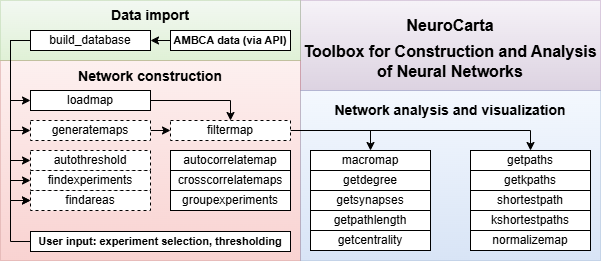
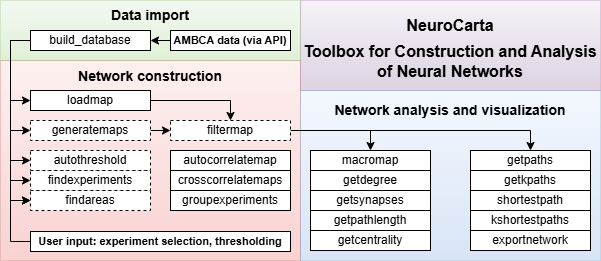
removed redundant nomralizemap function and added exportnetwork for data export to Gephi; updated Documentation and flowchart

diff --git a/Toolbox/Networks_analysis/exportnetwork.m b/Toolbox/Networks_analysis/exportnetwork.m
@@ -1,0 +1,201 @@
+function exportnetwork(filename, labels, conn, directed, varargin)
+%% Export network data to a file in GEXF format.
+% Export a network to a GEXF (XML-like) file that can be loaded by network
+% visualization software, Gephi in particular.
+% 
+% export_network(filename, labels, conn, directed,...)
+% 
+% Input:
+% filename: (required) name of output file.
+% labels:   (required) N-length cell array with node labels.
+% conn:     (required) Connectivity matrix (N by N).
+% directed: (required) true/false whether edge directionality should be
+%           considered.
+%
+% Optionally, add properties for nodes and/or edges. For every property,
+% include a parameter that is a struct with the following fields:
+% % name:   Name of the property
+% % data:   Values of the property for all nodes/edges. Whether the
+%           property is interpreted as a node- or edge-related property
+%           depends on the matrix size. If it is 'N by 1' or '1 by N', it
+%           is a node property. If the size is 'N by N', it is an edge
+%           propperty.
+% % type:   Choose 'boolean', 'int', 'long', 'float', 'double', or 'string'
+%
+% To color nodes, add a node property named 'color' accompanied by a list
+% of hex strings (e.g. obtained from rgb2hex()).
+% 
+% Limitation: node data can not be named 'id' or 'label' and edge data can
+% not be named 'id', 'source', 'target' or 'weight'. Script does not check
+% for this!
+% 
+% Example (where node_size and edge_group are extra properties):
+% export_network('nw.gexf', [N*1 cell arr], [N*N arr], false, ...
+%                struct('name','node_size', 'data',[N*1 arr], 'type','float'), ...
+%                struct('name','edge_group', 'data',[N*N arr], 'type','boolean'))
+
+%% Check arguments
+N = size(conn, 1);
+if N ~= size(conn, 2) % Bilateral map
+    conn = [conn;[conn(:,(N+1):(2*N)) conn(:,1:N)]];
+    N = size(conn, 1);
+    labels = [labels ; strcat('c', labels)];
+end
+
+node_props = [];
+edge_props = [];
+node_viz = [];
+edge_viz = [];
+for i = 1:length(varargin)
+    warning_ending=" in extra parameter " + num2str(i);
+    
+    for f = ["name", "data", "type"]
+        assert(isfield(varargin{i}, f), f+" field missing" + warning_ending);
+    end
+    
+    sz = size(varargin{i}.data);
+    if isequal(sz, [1 N]) || isequal(sz, [N 1])
+        if varargin{i}.name == "color"
+            node_viz = varargin{i};
+        else
+            node_props = [node_props varargin{i}];
+        end
+    elseif isequal(sz, [N N])
+        if varargin{i}.name == "color"
+            edge_viz = varargin{i};
+        else
+            edge_props = [edge_props varargin{i}];
+        end
+    else
+        error("Wrong size [" + num2str(sz) + "]" + warning_ending);
+    end
+    
+    types = ["boolean","int","long","float","double","string"];
+    assert(ismember(varargin{i}.type,types),"Unknown datatype "+varargin{i}.type + warning_ending);
+end
+
+%% Create XML document object
+disp('Creating document...');
+xmlDoc = com.mathworks.xml.XMLUtils.createDocument('gexf');
+gexf = xmlDoc.getDocumentElement;
+gexf.setAttribute('version', '1.3');
+gexf.setAttribute('xmlns', 'http://gexf.net/1.3');
+if ~(isempty(node_viz) && isempty(edge_viz))
+    gexf.setAttribute('xmlns:viz', 'http://gexf.net/1.3/viz');
+end
+
+%% Create graph element
+graph = xmlDoc.createElement('graph');
+graph.setAttribute('mode','static');
+if directed
+    graph.setAttribute('defaultedgetype','directed');
+else
+    conn = max(conn, conn');
+    conn = tril(conn);
+    graph.setAttribute('defaultedgetype','undirected');
+end
+
+% Create node attribute elements
+if ~isempty(node_props)
+    atts = xmlDoc.createElement('attributes');
+    atts.setAttribute('class','node');
+    for i = 1:length(node_props)
+        att = xmlDoc.createElement('attribute');
+        att.setAttribute('id',num2str(i-1));
+        att.setAttribute('title',node_props(i).name);
+        att.setAttribute('type',node_props(i).type);
+        atts.appendChild(att);
+    end
+    graph.appendChild(atts);
+end
+
+% Create edge attribute elements
+if ~isempty(edge_props)
+    atts = xmlDoc.createElement('attributes');
+    atts.setAttribute('class','edge');
+    for i = 1:length(edge_props)
+        att = xmlDoc.createElement('attribute');
+        att.setAttribute('id',num2str(i-1));
+        att.setAttribute('title',edge_props(i).name);
+        att.setAttribute('type',edge_props(i).type);
+        atts.appendChild(att);
+    end
+    graph.appendChild(atts);
+end
+nodes = xmlDoc.createElement('nodes');
+edges = xmlDoc.createElement('edges');
+gexf.appendChild(graph);
+graph.appendChild(nodes);
+graph.appendChild(edges);
+
+%% Add node data to graph element
+disp('Writing node data to document...');
+for i = 1:N
+    node = xmlDoc.createElement('node');
+    node.setAttribute('id',num2str(i-1));
+    node.setAttribute('label',labels{i});
+    if ~isempty(node_props)
+        avs = xmlDoc.createElement('attvalues');
+        for j = 1:length(node_props)
+            av = xmlDoc.createElement('attvalue');
+            av.setAttribute('for',num2str(j-1));
+            if iscell(node_props(j).data(i))
+                av.setAttribute('value',node_props(j).data{i});
+            else
+                av.setAttribute('value',num2str(node_props(j).data(i))); % num2str necessary?
+            end
+            avs.appendChild(av);
+        end
+        node.appendChild(avs);
+    end
+    if ~isempty(node_viz)
+        viz = xmlDoc.createElement('viz:color');
+        viz.setAttribute('hex', node_viz.data(i));
+        node.appendChild(viz);
+    end
+    nodes.appendChild(node);
+end
+
+%% Add edge data to graph element
+disp('Writing edge data to document...');
+l = 0;
+for i = 1:N
+    for j = 1:N
+        if conn(i,j)==0 || i == j
+            continue;
+        end
+        edge = xmlDoc.createElement('edge');
+        edge.setAttribute('id',num2str(l));
+        edge.setAttribute('source',num2str(i-1));
+        edge.setAttribute('target',num2str(j-1));
+        edge.setAttribute('weight',num2str(conn(i,j)));
+        if ~isempty(edge_props)
+            avs = xmlDoc.createElement('attvalues');
+            for k = 1:length(edge_props)
+                av = xmlDoc.createElement('attvalue');
+                av.setAttribute('for',num2str(k-1));
+                if iscell(edge_props(k).data(i,j)) 
+                    av.setAttribute('value',edge_props(k).data{i,j});
+                else
+                    av.setAttribute('value',num2str(edge_props(k).data(i,j)));
+                end
+                avs.appendChild(av);
+            end
+            edge.appendChild(avs);
+        end
+        if ~isempty(edge_viz)
+            viz = xmlDoc.createElement('viz:color');
+            viz.setAttribute('hex', edge_viz.data(i));
+            edge.appendChild(viz);
+        end
+        edges.appendChild(edge);
+        l = l+1;
+    end
+end
+
+if length(filename) < 5
+    filename = [filename '.gexf'];
+elseif ~strcmp(filename(end-4:end),'.gexf')
+    filename = [filename '.gexf'];
+end
+xmlwrite(filename,xmlDoc);

diff --git a/Documentation/Documentation.md b/Documentation/Documentation.md
@@ -45,7 +45,6 @@ findarea|Find area by (partial) name
 loadmap|Compile experiment files into single network
 generatemaps|Calls `loadmap` with many different parameters
 filtermap|Filter weak connections from network
-normalizemap|Normalize connections to [0,1] interval
 trimmap|Remove any disconnected nodes from network
 
 ### Network analysis
@@ -61,3 +60,4 @@ getcentrality|Returns betweenness centrality measure for nodes in the network
 kshortestpaths|Computes the K shortest paths a pair of nodes
 getkpaths|Computes the K shortest paths between all node pairs
 macromap|Returns adjacency matrix with averaged connectivity between larger brain regions
+exportnetwork|Exports network data to GEXF file format suitable for network visualization software
